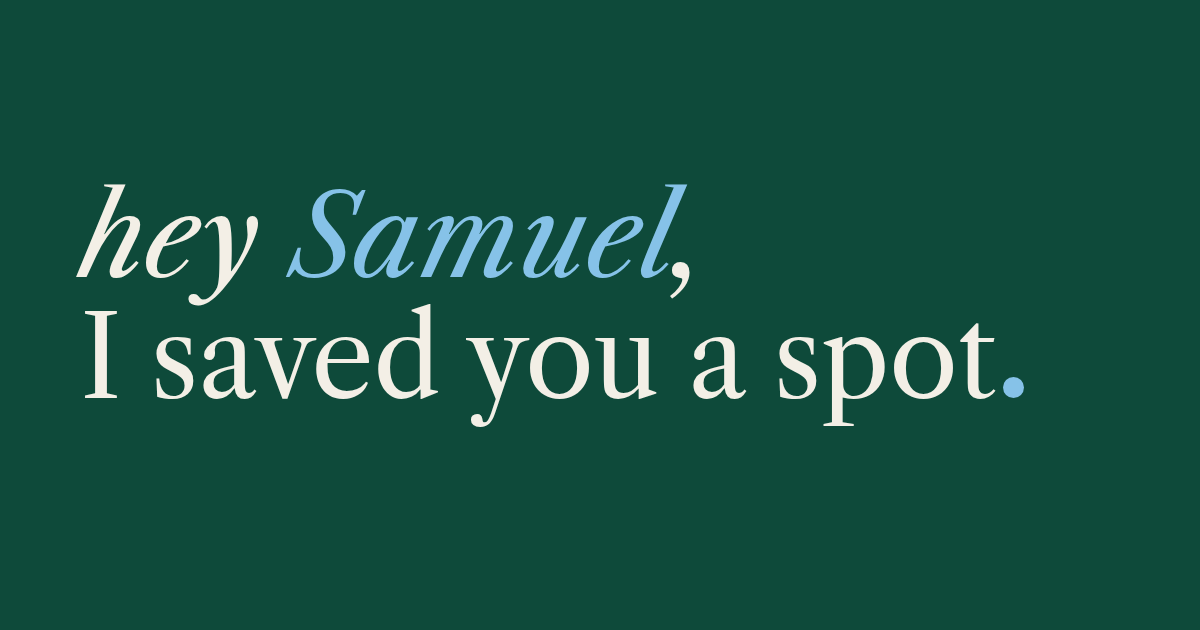
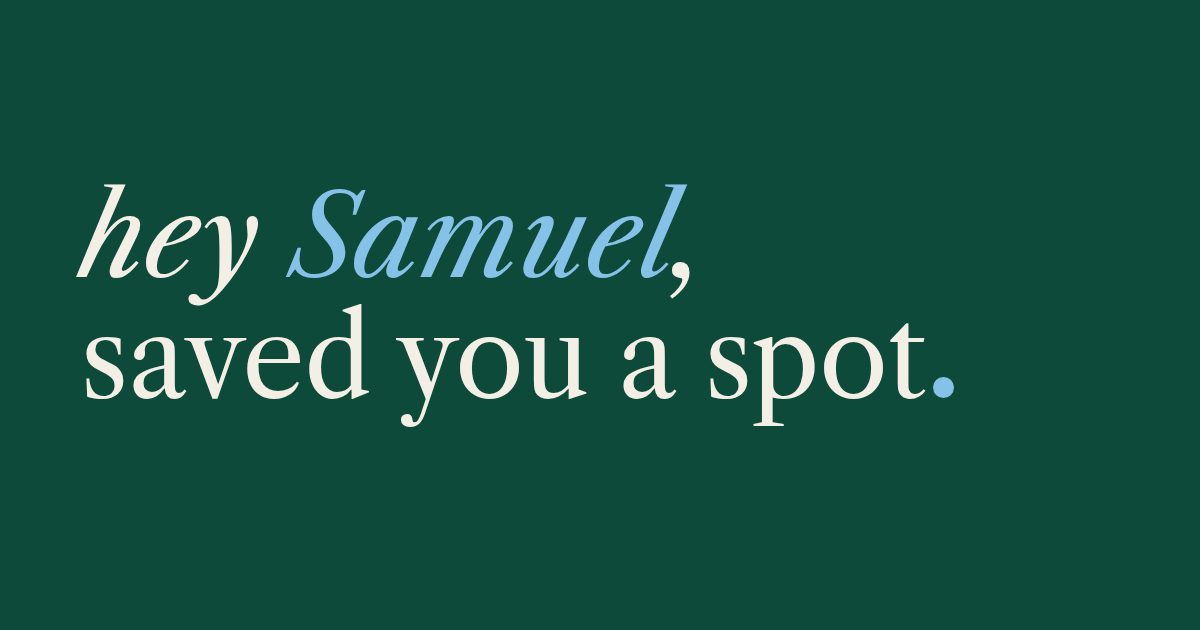
Drop the I: hey Samuel, saved you a spot
Claude-Session: https://claude.ai/code/session_01GQbAq1khEHKyoh2PsipeG5

Changed region(s): [[0.0617, 0.4825, 0.8633, 0.6937]]

diff --git a/index.html b/index.html
@@ -4,9 +4,9 @@
 <meta charset="utf-8">
 <meta name="viewport" content="width=device-width, initial-scale=1">
 <title>Samuel's Spot</title>
-<meta name="description" content="hey Samuel, I saved you a spot.">
+<meta name="description" content="hey Samuel, saved you a spot.">
 <link rel="canonical" href="https://samuelrobertobrien.com/">
-<meta property="og:title" content="hey Samuel, I saved you a spot.">
+<meta property="og:title" content="hey Samuel, saved you a spot.">
 <meta property="og:type" content="website">
 <meta property="og:url" content="https://samuelrobertobrien.com/">
 <meta property="og:image" content="https://samuelrobertobrien.com/og.png">
@@ -103,7 +103,7 @@
 </head>
 <body>
 <main class="stage">
-  <p class="line"><em>hey <span class="name">Samuel</span>,</em><br>I saved you <span class="nb">a spot<span class="spot" aria-hidden="true"></span><span class="sr">.</span></span></p>
+  <p class="line"><em>hey <span class="name">Samuel</span>,</em><br>saved you <span class="nb">a spot<span class="spot" aria-hidden="true"></span><span class="sr">.</span></span></p>
 </main>
 </body>
 </html>

diff --git a/README.md b/README.md
@@ -1,6 +1,6 @@
 # Samuel's Spot
 
-One page, one sentence: *hey Samuel, I saved you a spot.*
+One page, one sentence: *hey Samuel, saved you a spot.*
 
 Built to be kept. `index.html` is the entire site. The typeface (Libre Caslon Text) is embedded inside the file, there is no JavaScript, no build step, and nothing is loaded from anyone else's server. It should render the same in twenty years as it does today, and it prints in its own colour for framing.
 
@@ -8,7 +8,7 @@ Built to be kept. `index.html` is the entire site. The typeface (Libre Caslon Te
 
 - One deep green, the colour of a painted Dublin door. Warm-white words.
 - Samuel's name and the full stop are the boy's blue. The spot is him.
-- On a phone the sentence breaks as *hey Samuel, / I saved you / a spot.* On a wider screen it sits on two lines.
+- On a phone the sentence breaks as *hey Samuel, / saved you / a spot.* On a wider screen it sits on two lines.
 - The only movement is the spot landing when the page opens. It stays still for anyone with reduced motion turned on.
 
 ## Change the words
@@ -16,7 +16,7 @@ Built to be kept. `index.html` is the entire site. The typeface (Libre Caslon Te
 Edit the one paragraph in `index.html`:
 
 ```html
-<p class="line"><em>hey <span class="name">Samuel</span>,</em><br>I saved you <span class="nb">a spot<span class="spot" aria-hidden="true"></span><span class="sr">.</span></span></p>
+<p class="line"><em>hey <span class="name">Samuel</span>,</em><br>saved you <span class="nb">a spot<span class="spot" aria-hidden="true"></span><span class="sr">.</span></span></p>
 ```
 
 The blue dot after "spot" is the full stop, and the name shares its colour. Leave the trailing spans in place if you change the sentence.
